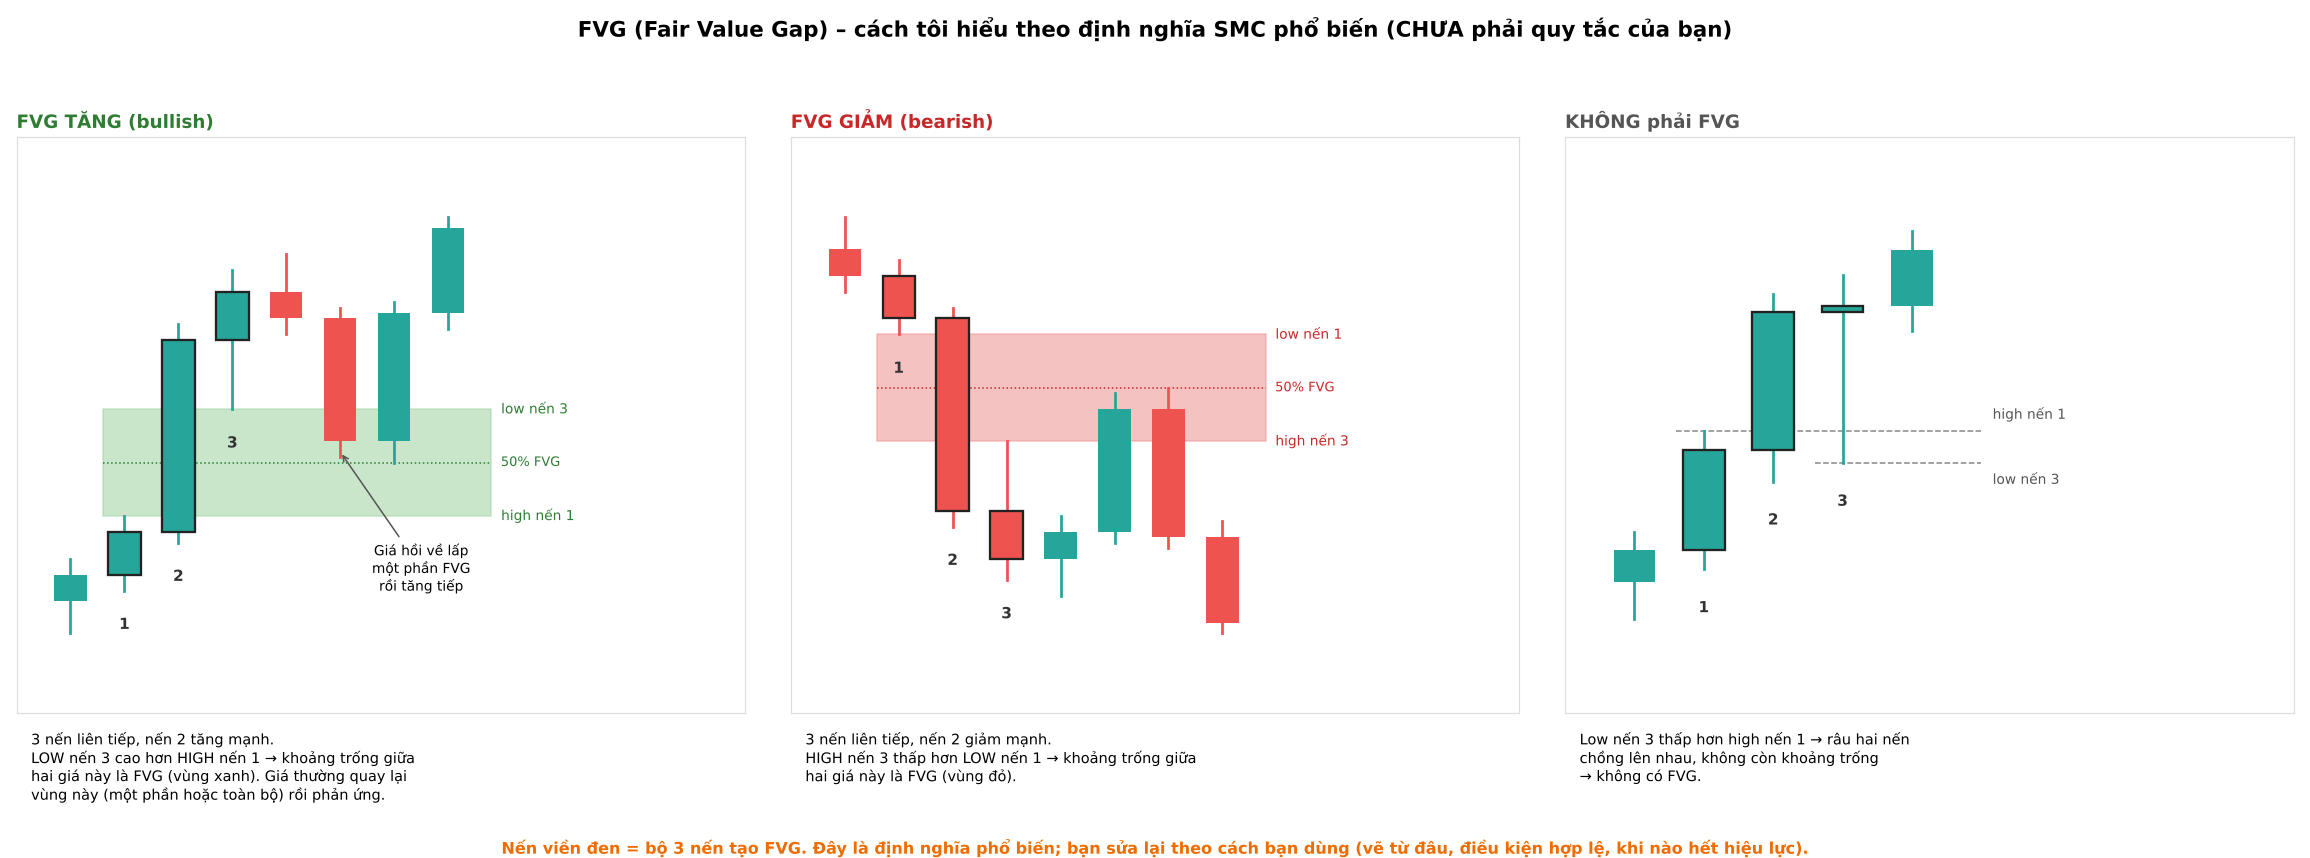
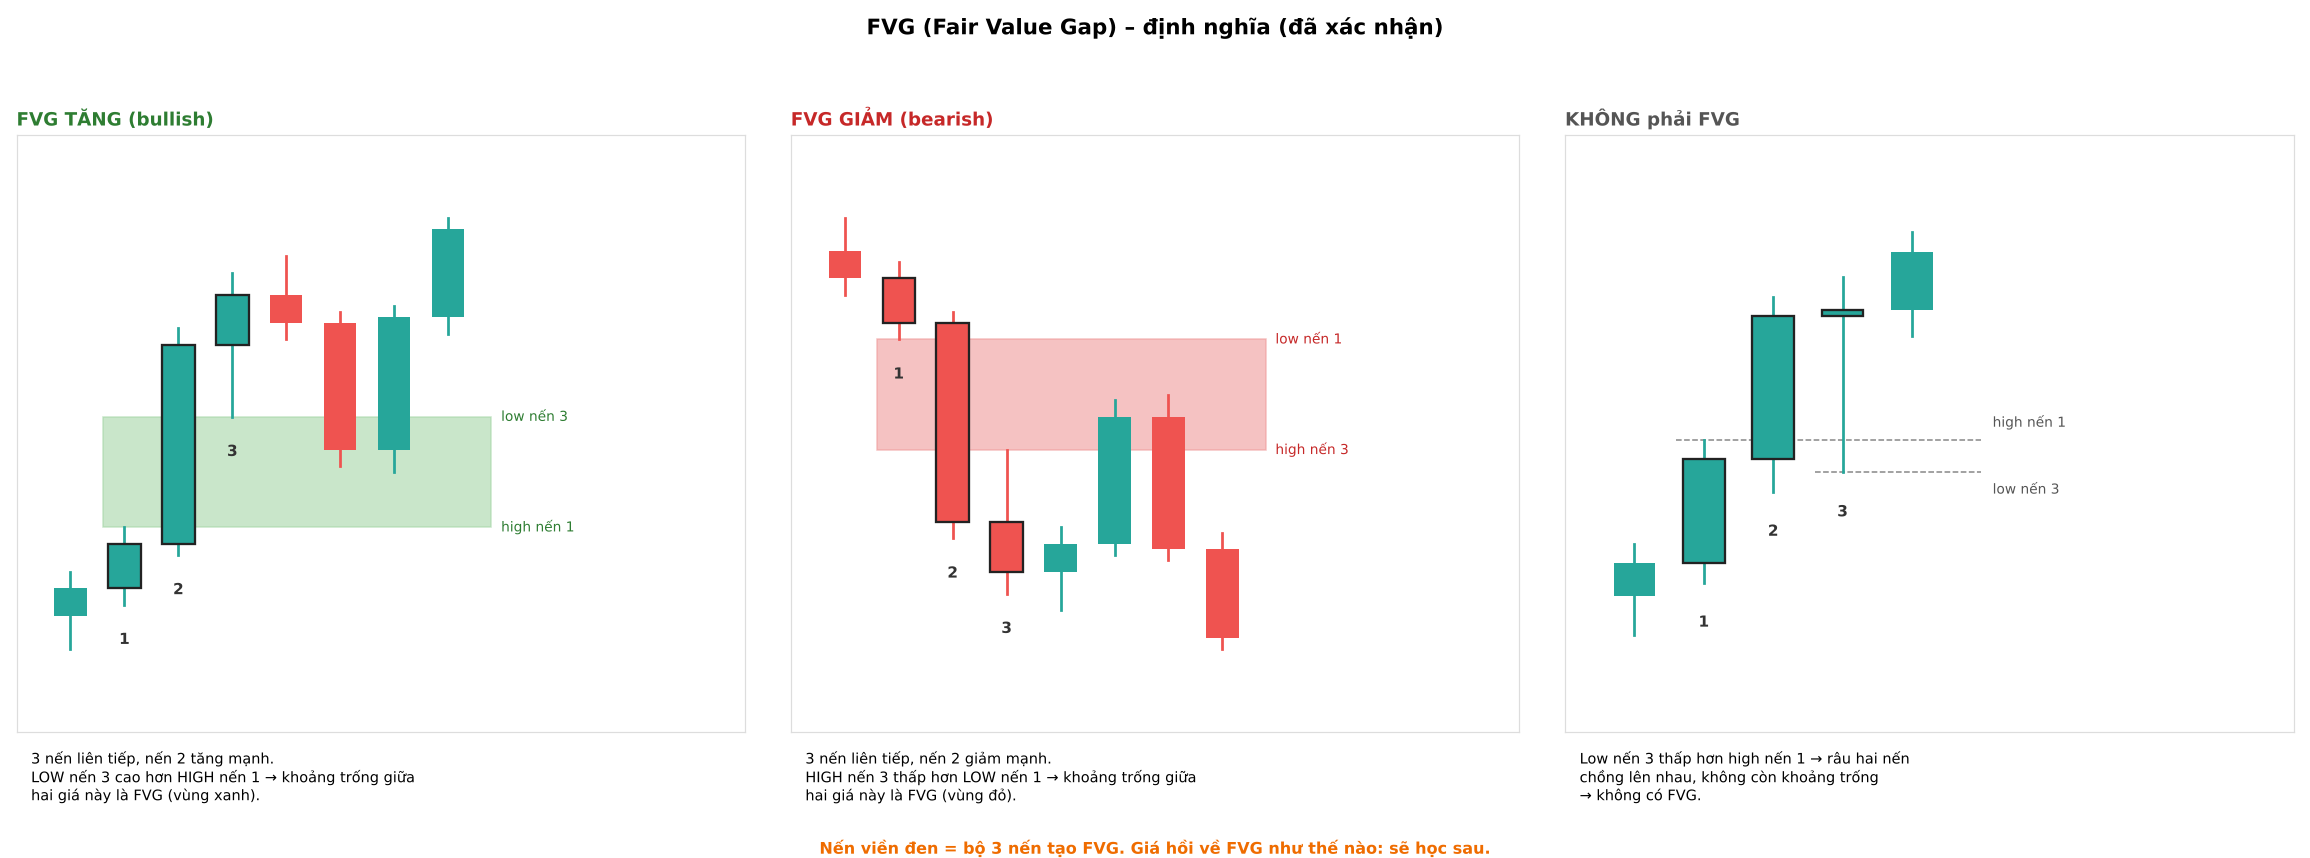
FVG: chốt định nghĩa; bỏ giả định giá hồi lấp FVG (học sau)
Claude-Session: https://claude.ai/code/session_01QDQqkxbAsnss6apbWZAP33

diff --git a/knowledge/03-setup.md b/knowledge/03-setup.md
@@ -178,5 +178,6 @@ Ví dụ chart thật: `examples/01-dinh-day-xauusd-h4.jpg`
 - Chưa học: các loại POI, cách vẽ, POI nào hợp lệ.
 
 ### 7.1 FVG (Fair Value Gap)
-- **Cách Claude hiểu theo định nghĩa SMC phổ biến (CHƯA phải quy tắc người dùng, chờ duyệt):** bộ 3 nến liên tiếp. FVG tăng: low nến 3 > high nến 1, vùng FVG = từ high nến 1 đến low nến 3. FVG giảm: high nến 3 < low nến 1, vùng = từ high nến 3 đến low nến 1. Râu nến 1 và 3 chồng nhau thì không có FVG.
+- **Định nghĩa (đã xác nhận, giống định nghĩa SMC phổ biến):** bộ 3 nến liên tiếp. FVG tăng: low nến 3 > high nến 1, vùng FVG = từ high nến 1 đến low nến 3. FVG giảm: high nến 3 < low nến 1, vùng = từ high nến 3 đến low nến 1. Râu nến 1 và 3 chồng nhau thì không có FVG.
 - Minh họa: `examples/21-fvg.png`
+- **Lưu ý:** cách hiểu phổ biến "giá thường quay lại lấp một phần/toàn bộ FVG rồi phản ứng" là **SAI** theo người dùng. Giá hồi về FVG như thế nào: **học sau**. Không tự áp dụng mức 50% FVG.
